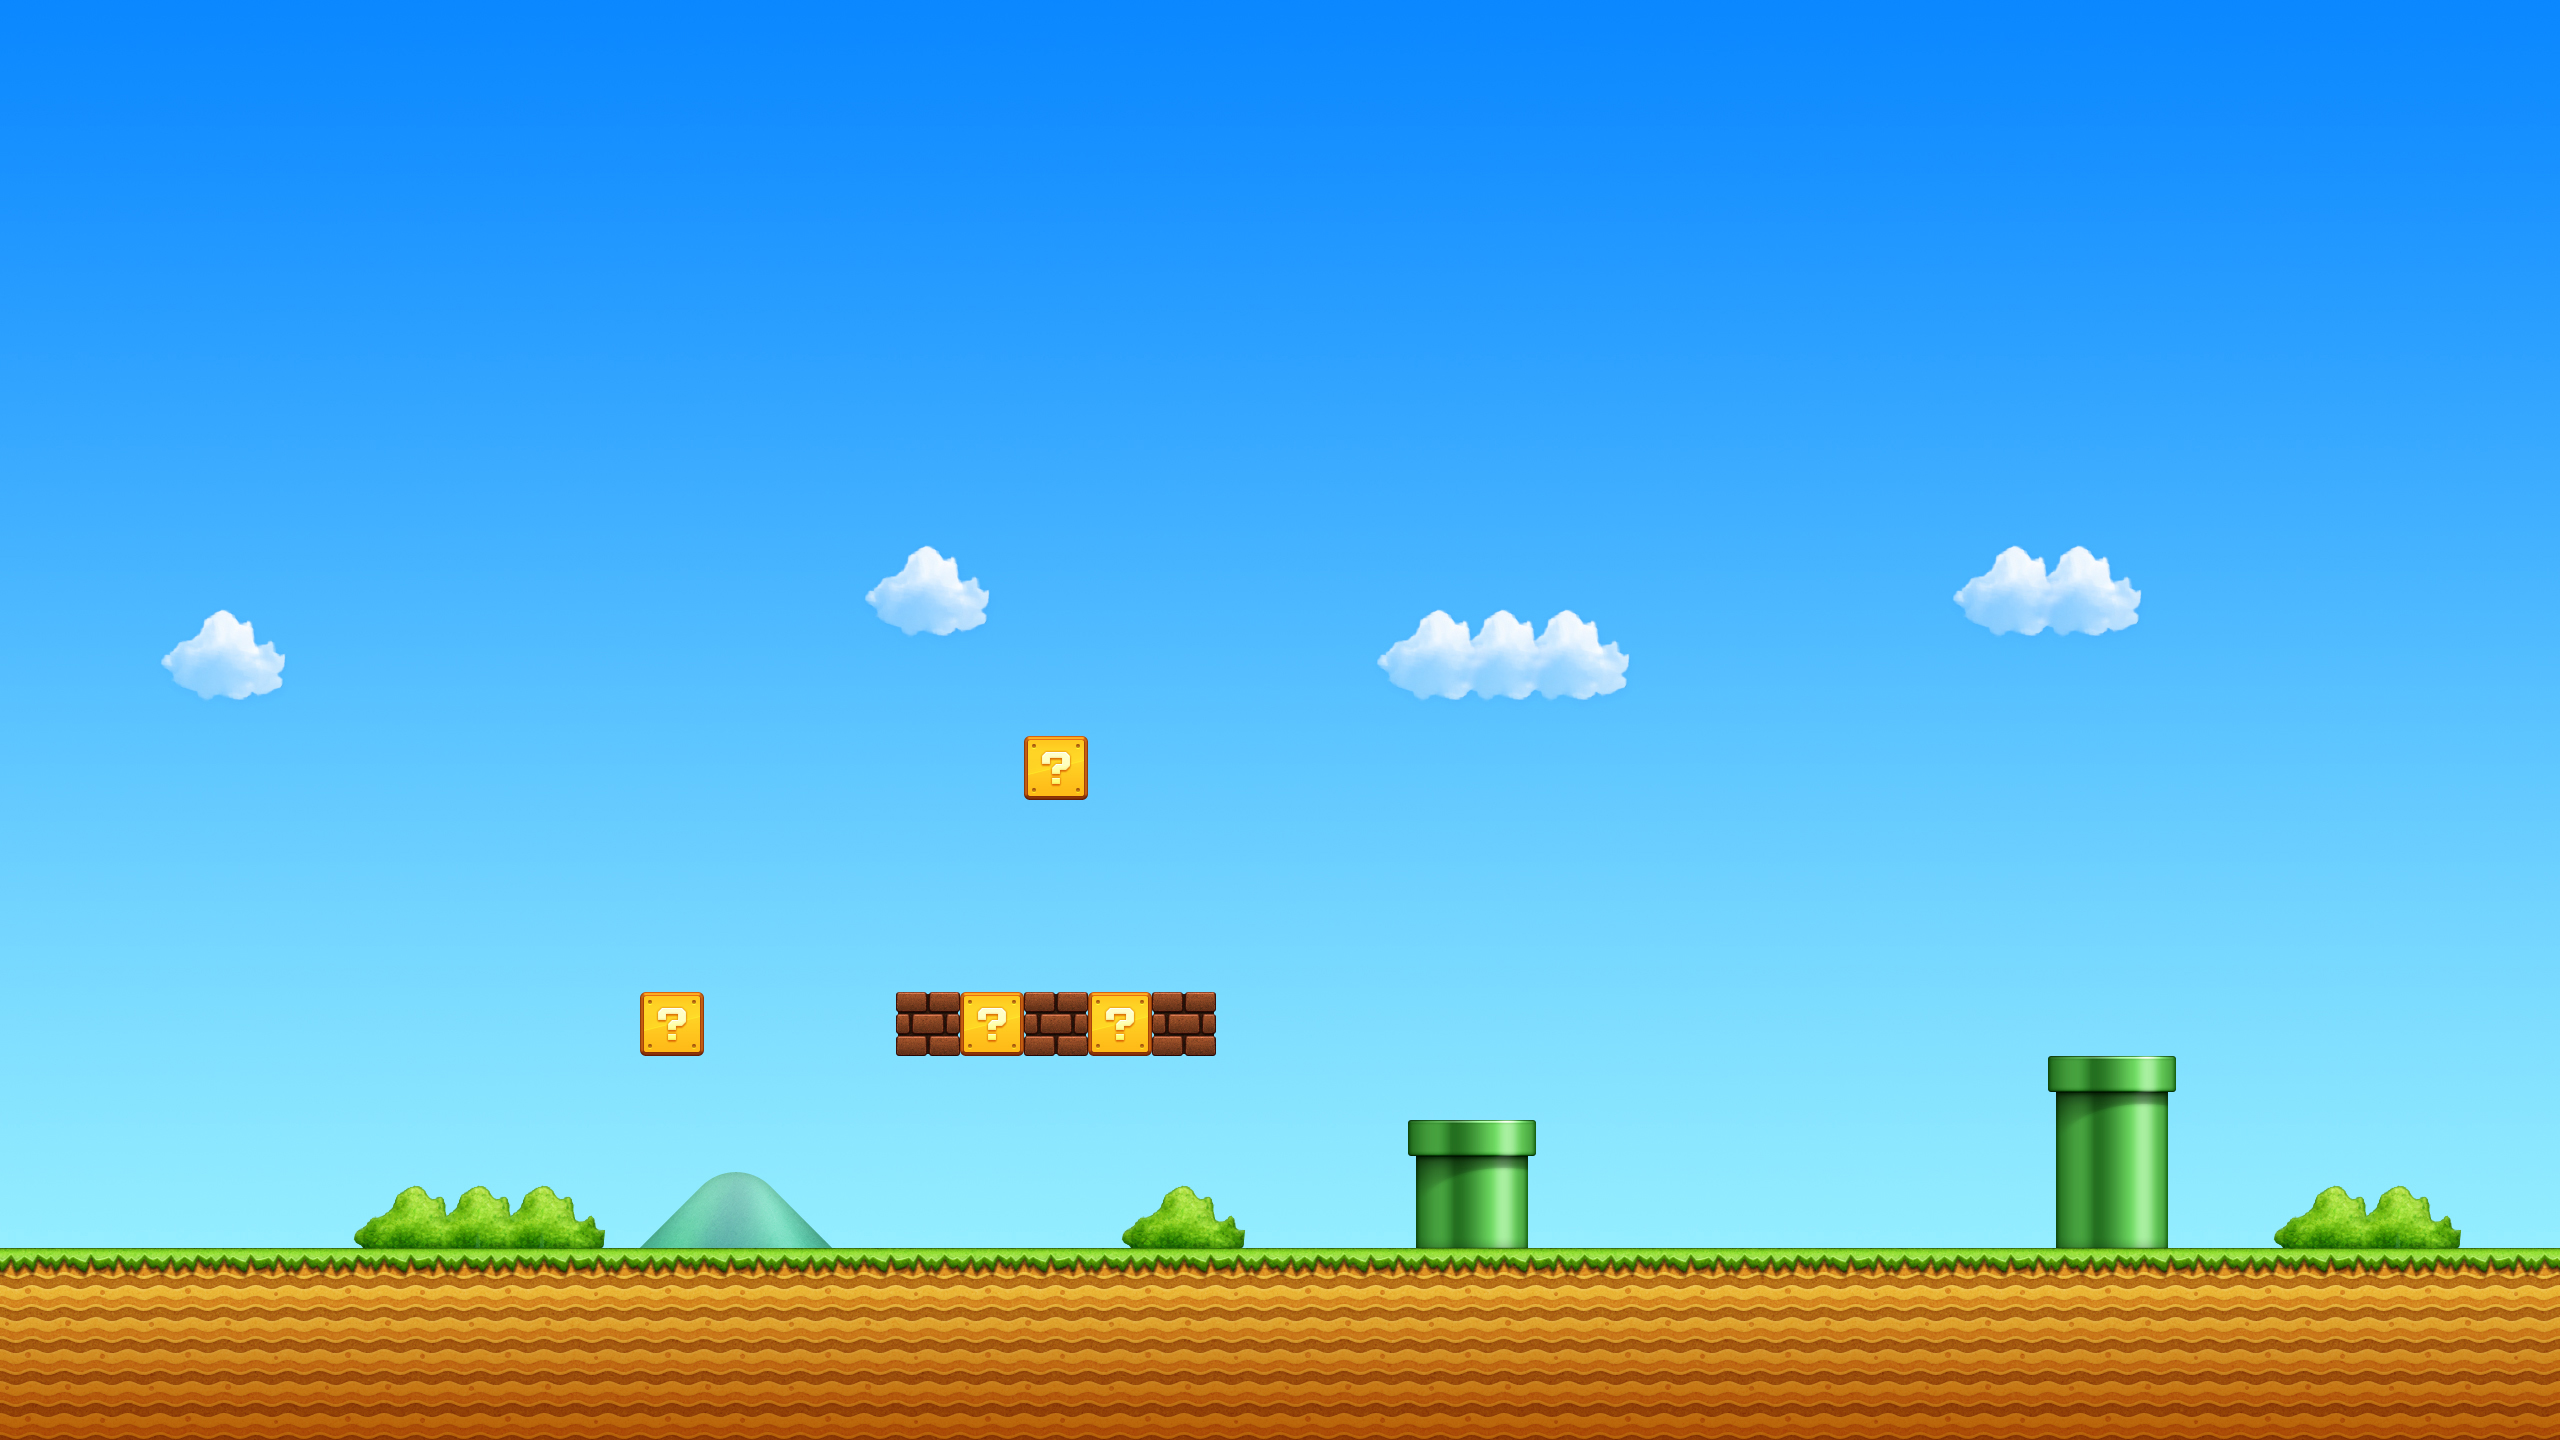
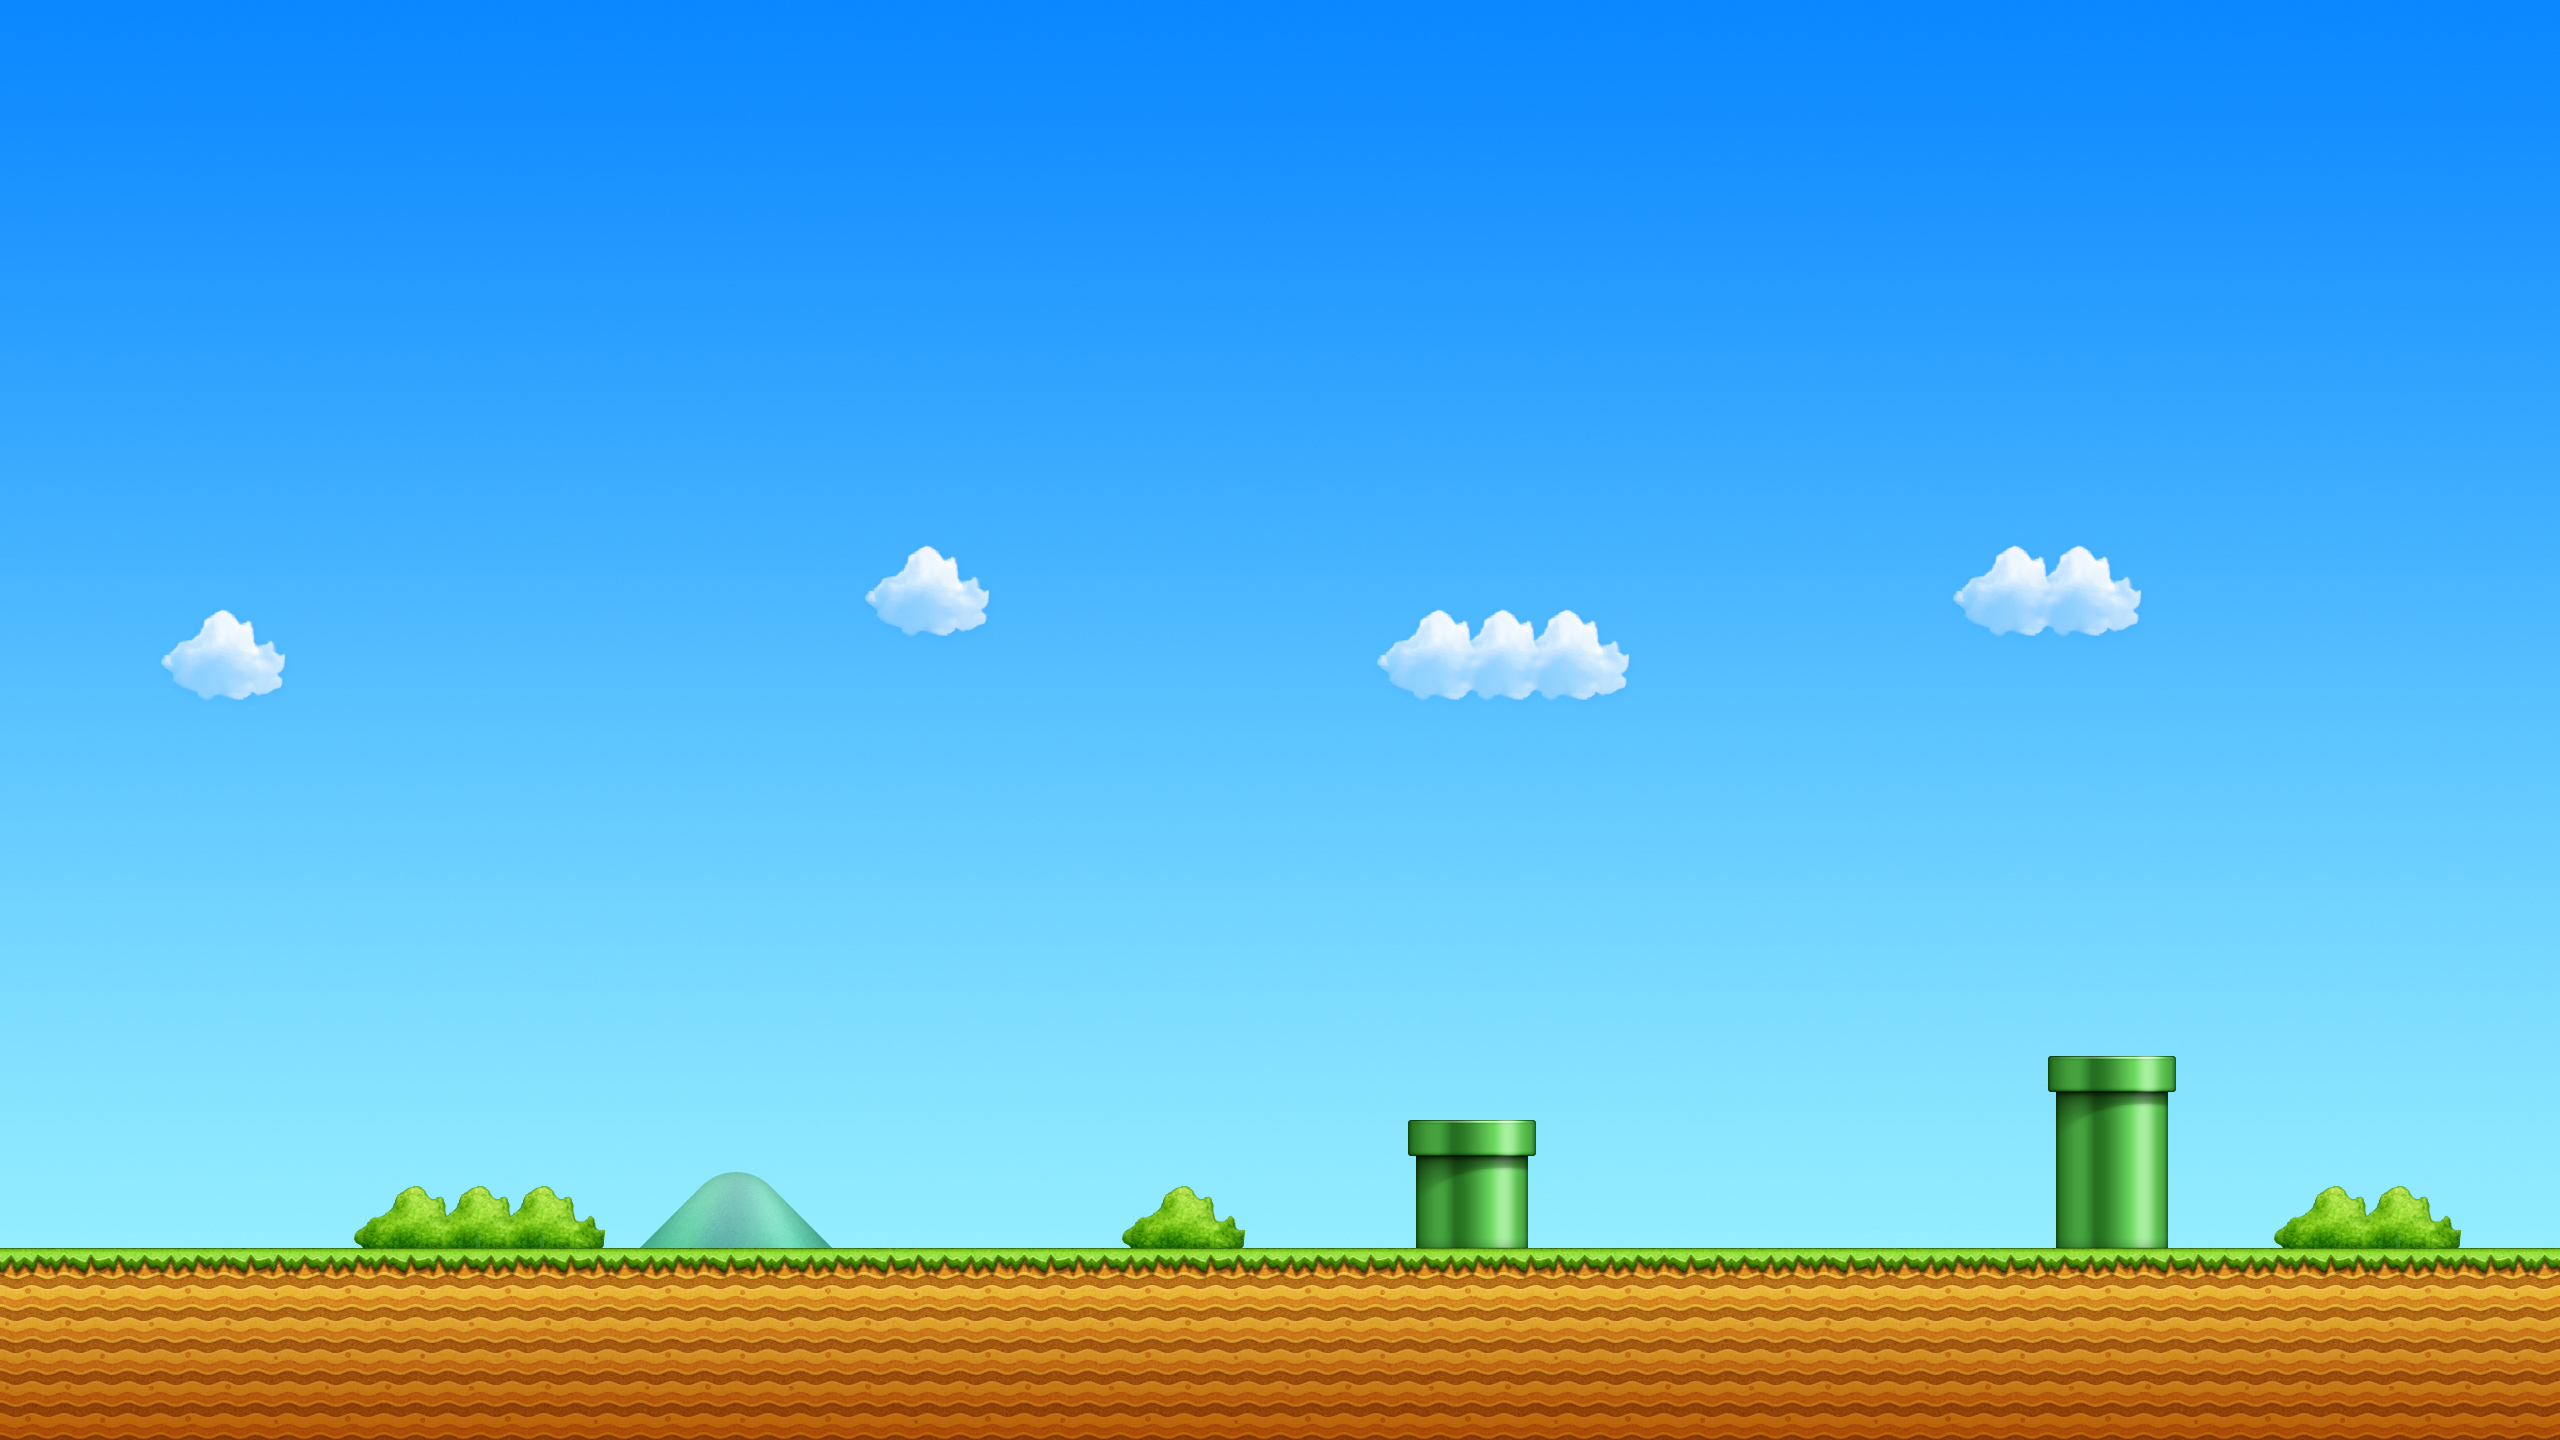
updated visuals

Changed region(s): [[0.3438, 0.6875, 0.5, 0.75], [0.375, 0.5, 0.4375, 0.5625], [0.25, 0.6875, 0.2812, 0.75]]

diff --git a/mario_js/script.js b/mario_js/script.js
@@ -1,4 +1,7 @@
-
+const bg_img_width = 2560;
+const bg_img_height = 1440
+const original_ground_height = 1247;
+const original_size = 50;
 // dom elements
 const form = document.querySelector("form");
 const input = document.getElementById("height-input");
@@ -9,42 +12,44 @@ const canvas_div = document.querySelector(".canvas-container");
 const img = document.getElementById("mario-block");
 const background = document.getElementById("mario-background");
 
-const canvas = document.createElement("canvas");
+const canvas = document.querySelector("canvas");
 const ctx = canvas.getContext("2d");
-
-console.log(canvas_div.hasChildNodes());
 
 // global variables
 const bg_color = "black";
+let ground_height = original_ground_height;
+let size = original_size;
+let scaling_factor = 0;
 let gap = 3;
 // initialise rect object
 let rect = {
     x: 1,
-    y: 10,
-    height: 25,
-    width: 25,
+    y: ground_height - size,
+    height: size,
+    width: size,
 }
 
 // event listeners
  less_button.addEventListener("click", (event) => {
-    if (!canvas_div.children.length){
-        canvas_div.appendChild(canvas);
-    }
-    canvas.width = 60 + (parseInt(input.value) * (rect.width * 2)) + (2 * parseInt(input.value) + (gap * rect.width) + gap);
-    canvas.height = (parseInt(input.value) * (rect.height)) + (gap * parseInt(input.value)) + 20;
+    // if (!canvas_div.children.length){
+    //     canvas_div.appendChild(canvas);
+    //     console.log("added canvas");
+    // }
+    // canvas.width = 60 + (parseInt(input.value) * (rect.width * 2)) + (2 * parseInt(input.value) + (gap * rect.width) + gap);
+    // canvas.height = (parseInt(input.value) * (rect.height)) + (gap * parseInt(input.value)) + 20;
     clear_canvas("red", true);
-    console.log("click");
+    console.log(rect);
     // ctx.drawImage(img, 10, 10, 50, 50);
     show_left_pyramid(input.value, rect, true)
  });
 
  more_button.addEventListener("click", (event) => {
-    if (!canvas_div.children.length){
-        canvas_div.appendChild(canvas);
-    }
+    // if (!canvas_div.children.length){
+    //     canvas_div.appendChild(canvas);
+    // }
         // dynamically set canvas width
-        canvas.width = 60 + (parseInt(input.value) * (rect.width * 2)) + (2 * parseInt(input.value) + (gap * rect.width) + gap);
-        canvas.height = (parseInt(input.value) * (rect.height)) + (gap * parseInt(input.value)) + 20;
+        // canvas.width = 60 + (parseInt(input.value) * (rect.width * 2)) + (2 * parseInt(input.value) + (gap * rect.width) + gap);
+        // canvas.height = (parseInt(input.value) * (rect.height)) + (gap * parseInt(input.value)) + 20;
         clear_canvas("red", true);
         rect = show_left_pyramid(input.value, rect, true);
         rect.y = 10;    // reset y
@@ -57,20 +62,17 @@ let rect = {
 form.addEventListener("submit", (event) => {
     event.preventDefault(); // Prevent the form from submitting the traditional way
 
-    if (!canvas_div.children.length){
-        canvas_div.appendChild(canvas);
-    }
+    // if (!canvas_div.children.length){
+    //     canvas_div.appendChild(canvas);
+    // }
 
     // dynamically set canvas width
-    canvas.width = 60 + (parseInt(input.value) * (rect.width * 2)) + (2 * parseInt(input.value) + (gap * rect.width) + gap);
-    canvas.height = (parseInt(input.value) * (rect.height)) + (gap * parseInt(input.value)) + 20;
+    // canvas.width = 60 + (parseInt(input.value) * (rect.width * 2)) + (2 * parseInt(input.value) + (gap * rect.width) + gap);
+    // canvas.height = (parseInt(input.value) * (rect.height)) + (gap * parseInt(input.value)) + 20;
     clear_canvas("red", true);
     rect = show_left_pyramid(input.value, rect);
-    rect.y = 10;    // reset y
     rect = show_gap(input.value, rect, gap);
-    rect.y = 10;    // reset y
     rect = show_right_pyramid(input.value, rect);
-    rect.y = 10;    // reset y
 });
 
 height_slider.oninput = function () {
@@ -80,9 +82,10 @@ height_slider.oninput = function () {
 
 function show_right_pyramid(n, rect, use_img=false, color="red"){
     let x;
-    for (let i = 0; i < n; i++){
+    rect.y = ground_height - size
+    for (let i = n; i >= 0; i--){
         x = rect.x;
-        for (let j = 0; j <= i; j++){
+        for (let j = 0; j < i; j++){
             if(use_img){
                 ctx.drawImage(img, x, rect.y, rect.height, rect.width);
             }
@@ -92,7 +95,7 @@ function show_right_pyramid(n, rect, use_img=false, color="red"){
             }
             x += rect.width;
         }
-        rect.y += rect.height;
+        rect.y -= rect.height;
     }
     rect.x = x;
     return rect;
@@ -100,10 +103,11 @@ function show_right_pyramid(n, rect, use_img=false, color="red"){
 
 function show_left_pyramid(n, rect, use_img=false,color="green"){
     let x;
-    rect.y = 10;
-    for (let i = 0; i < n; i++){
-        x = (n - i + 1) * rect.width;
-        for (let j = 0; j <= i; j++){
+    rect.y = ground_height - size
+    for (let i = n; i > 0; i--){
+        // puts center of gap in center of canvas
+        x = (n - i + 1) * rect.width + ((canvas.width / 2) - (size * n) - ((size * gap) / 2)) ;
+        for (let j = 0; j < i; j++){
             if(use_img){
                 ctx.drawImage(img, x, rect.y, rect.height, rect.width);
             }
@@ -113,7 +117,7 @@ function show_left_pyramid(n, rect, use_img=false,color="green"){
             }
             x += rect.width;
         }
-        rect.y += rect.height;
+        rect.y -= rect.height;
     }
     rect.x = x;
     return rect;
@@ -136,6 +140,20 @@ function show_gap(n, rect, gap, use_img=false, color=bg_color){
 }
 
 function clear_canvas(color=bg_color, img=false){
+    canvas.width = window.innerWidth - (window.innerWidth / 20);
+    scaling_factor = canvas.width / bg_img_width;
+    canvas.height = bg_img_height * scaling_factor;
+    ground_height = canvas.height - (canvas.height / (bg_img_height / 193));
+    size = original_size * scaling_factor
+
+    rect = {
+        x: 1,
+        y: ground_height - size,
+        height: size,
+        width: size,
+    }
+
+    
     if (!img){
         ctx.fillStyle = color;
         ctx.fillRect(0, 0, canvas.width, canvas.height);

diff --git a/mario_js/mario.html b/mario_js/mario.html
@@ -4,8 +4,8 @@
     <meta charset="UTF-8">
     <meta name="viewport" content="width=device-width, initial-scale=1.0">
     <script src="script.js" defer></script>
-    <link rel="stylesheet" href="style.css">
     <link rel="stylesheet" href="../site-style.css">
+    <link rel="stylesheet" href="style.css">
     <title>Mario</title>
 </head>
 <body>
@@ -14,6 +14,11 @@
     </header>
     <main>
         <h2>This is Mario</h2>
+        <div class="canvas-container">
+            <canvas height="1"></canvas>
+        </div>
+        <img src="assets\mario_box400x400.png" alt="a mario block" hidden id="mario-block">
+        <img src="assets\mario_wallpaper.jpg" alt="a mario background scene" hidden id="mario-background">
         <div class="form-container">
             <form action="submit">
                 <label for="height">Height:</label>
@@ -23,9 +28,6 @@
                 <button class="mario-more" type="button">Mario-more</button>
             </form>
         </div>
-        <div class="canvas-container"></div>
-        <img src="assets\mario_box400x400.png" alt="a mario block" hidden id="mario-block">
-        <img src="assets\mario_wallpaper.jpg" alt="a mario background scene" hidden id="mario-background">
     </main>
 </body>
 </html>

diff --git a/mario_js/style.css b/mario_js/style.css
@@ -1,6 +1,8 @@
+
+
 body {
     box-sizing: border-box;
-    background-color: aquamarine;
+    background-color: var(--bg-color);
 }
 
 h1 {
@@ -9,6 +11,9 @@ h1 {
 
 h2 {
     text-align: center;
+}
+canvas {
+    background-color: var(--bg-color);
 }
 
 .form-container {
